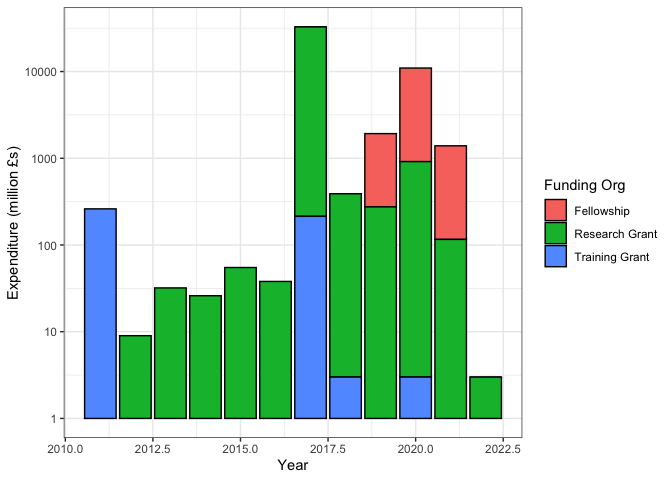
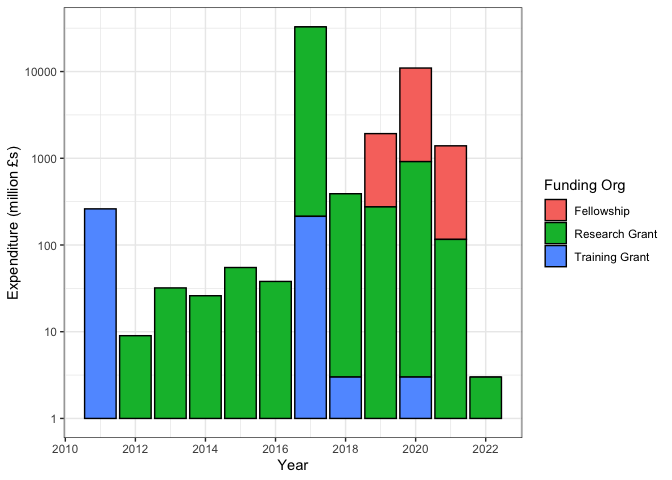
Years not floating point numbers.
Former-commit-id: 71bb088417f7fa57988629972a6c693436d48341

diff --git a/Src/ESRC.md b/Src/ESRC.md
@@ -1,7 +1,7 @@
 Economic and Social Research Council (ESRC) Data
 ================
 **Author**: Mario Antonioletti.<br/>
-**Last updated**: 23/11/21.
+**Last updated**: 24/11/21.
 
 -   [Introduction](#introduction)
 -   [Overall expenditure](#overall-expenditure)
